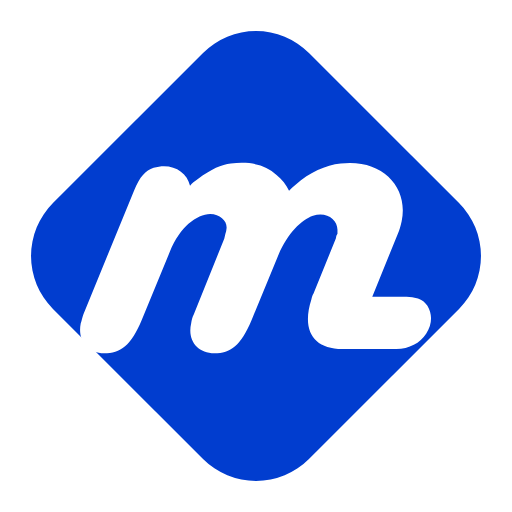
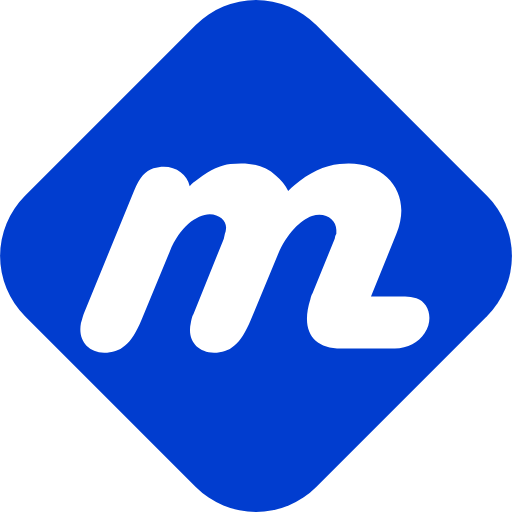
fix(brand): preserve original 2.svg asset

diff --git a/src/core/palette.test.js b/src/core/palette.test.js
@@ -109,13 +109,13 @@ test("the shipped brand assets carry the primary colour", () => {
   // because nothing regenerates these files automatically.
   const read = (...parts) => fs.readFileSync(path.join(__dirname, "..", "..", ...parts), "utf8");
   const assets = { "extension/media/minitok.svg": read("extension", "media", "minitok.svg"), "extension/rasterize-icon.cjs": read("extension", "rasterize-icon.cjs"), "extension/rasterize-representative.cjs": read("extension", "rasterize-representative.cjs") };
-  const allowed = [BRAND.primary.toUpperCase(), BRAND.onPrimary.toUpperCase()];
-  for (const [name, source] of Object.entries(assets)) {
-    assert.equal(source.includes(`fill="${BRAND.primary}"`), true, `${name} must paint the tile in ${BRAND.primary}`);
-    assert.equal(source.includes("src/core/palette.js"), true, `${name} must name the palette as its source`);
-    for (const literal of [...new Set([...source.matchAll(/#[0-9a-fA-F]{6}/g)].map(match => match[0].toUpperCase()))]) {
-      assert.equal(allowed.includes(literal), true, `${name} hardcodes ${literal}, which is not a palette colour`);
-    }
+  const svg = assets["extension/media/minitok.svg"];
+  assert.match(svg, /viewBox="0 0 72\.105095 72\.105095"/, "the supplied SVG viewBox must be preserved");
+  assert.match(svg, /transform="rotate\(45\)"/, "the supplied SVG rotation must be preserved");
+  assert.match(svg, /fill:#013dcf/i, "the supplied SVG must retain its primary fill");
+  assert.match(svg, /fill:#ffffff/i, "the supplied SVG must retain its white glyph");
+  for (const [name, source] of Object.entries(assets).filter(([name]) => name !== "extension/media/minitok.svg")) {
+    assert.equal(source.includes("media/minitok.svg"), true, `${name} must render the supplied SVG asset`);
   }
   const manifest = JSON.parse(read("extension", "package.json"));
   assert.equal(manifest.icon, "media/minitok.png", "the Marketplace icon is the rasterized tile");
